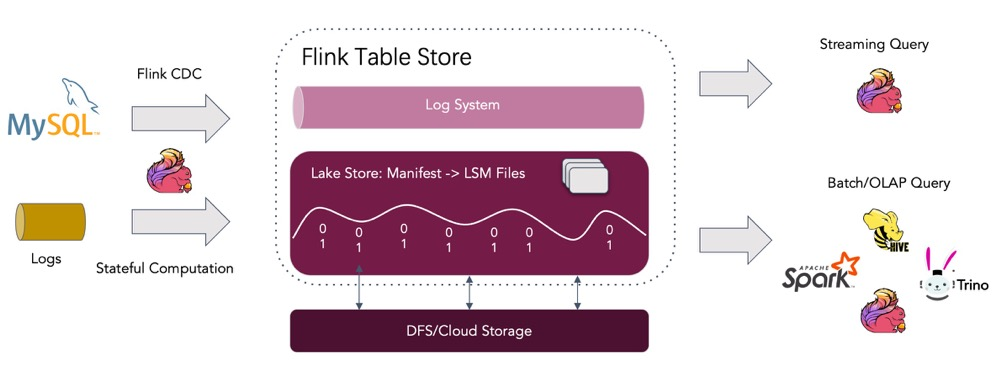
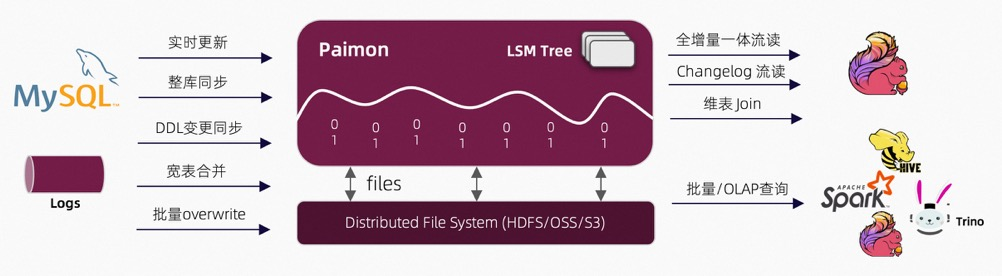
feat(flink): update paimon

diff --git a/bigdata/engine/flink/zoology/paimon/PaimonOverview.md b/bigdata/engine/flink/zoology/paimon/PaimonOverview.md
@@ -1,16 +1,16 @@
 # Quick Start
 
-* Flink1.14之后才支持Table Stroe，下载对应版本的Flink。
+* Flink1.14之后才支持Table Stroe(现改名为paimon)，下载对应版本的Flink。
 
 ## 前置环境
 
-### 下载Flink Table Store所需依赖
+### 下载Paimon所需依赖
 
-* 下载[flink1.15]([**https://dlcdn.apache.org/flink/flink-1.15.2/flink-1.15.2-bin-scala_2.12.tgz**](https://dlcdn.apache.org/flink/flink-1.15.2/flink-1.15.2-bin-scala_2.12.tgz))
-* 编译[Flink Table Store](https://nightlies.apache.org/flink/flink-table-store-docs-master/docs/engines/build/)
+* 下载[flink1.16](https://www.apache.org/dyn/closer.lua/flink/flink-1.16.1/flink-1.16.1-bin-scala_2.12.tgz)
+* 下载[Paimon](https://repository.apache.org/snapshots/org/apache/paimon/paimon-flink-1.16/0.4-SNAPSHOT/)
 
 ```shell
-cp flink-table-store-dist-*.jar FLINK_HOME/lib/
+cp paimon-flink-*.jar <FLINK_HOME>/lib/
 ```
 
 * 下载[flink hadoop](https://repo.maven.apache.org/maven2/org/apache/flink/flink-shaded-hadoop-2-uber/2.8.3-10.0/flink-shaded-hadoop-2-uber-2.8.3-10.0.jar)
@@ -47,7 +47,7 @@ taskmanager.numberOfTaskSlots: 2
 
 ```sql
 CREATE CATALOG my_catalog WITH (
-  'type'='table-store',
+  'type'='paimon',
   'warehouse'='file:/Users/huangshimin/Documents/study/flink/tableStoreData'
 );
 
@@ -97,23 +97,39 @@ SELECT `interval`, COUNT(*) AS interval_cnt FROM
   (SELECT cnt / 10000 AS `interval` FROM word_count) GROUP BY `interval`;
 ```
 
-# Table Store概述
+# Paimon概述
 
-* Flink Table Store是在Flink中构建动态表进行流处理和批处理的统一存储，支持高速数据摄取和及时数据查询。Table Store提供以下核心功能:
-  * 支持大规模数据集的存储，允许批处理和流模式下的读写。
-  * 支持延迟最小至毫秒的流查询。
-  * 支持最小延迟至第二级的批次/OLAP查询。
-  * 默认支持增量快照流消费。因此用户不需要自己组合不同的数据管道。
+* Apache Paimon (incubating) 是一项流式数据湖存储技术，可以为用户提供高吞吐、低延迟的数据摄入、流式订阅以及实时查询能力。Paimon 采用开放的数据格式和技术理念，可以与 Apache Flink / Spark / Trino 等诸多业界主流计算引擎进行对接，共同推进 Streaming Lakehouse 架构的普及和发展。
+* 作为一种新型的可更新数据湖，Paimon具有以下特点：
+  - 大吞吐量的更新数据摄取，同时提供良好的查询性能。
+  - 具有主键过滤器的高性能查询，响应时间最快可达到百毫秒级别。
+  - 流式读取在 Lake Storage 上可用，Lake Storage 还可以与 Kafka 集成，以提供毫秒级流式读取。
 
 ## 架构
 
 ![](../../img/tablestore架构.jpg)
 
-* **读/写:**  Table Store支持读写数据和执行OLAP查询的通用方法。
-  * 对于读，它支持读取数据来自1.历史快照(batch mode) 2.来自最新的offset(streaming mode) 3.混合方式读取增量快照数据
-  * 对于写，支持从数据库的变更日志(CDC)的流同步或从离线数据的批量插入/覆盖。
-* **外部生态系统:**  除了支持Flink以外，Table Store还支持通过其他计算引擎来读取例如Hive/Spark/Trino。
-* **内部原理:**  Table Store使用混合存储体系结构，使用湖格式存储历史数据，使用消息队列系统存储增量数据。前者将列存文件存储在文件系统/对象存储中，并使用LSM树结构支持大量数据更新和高性能查询。后者使用Apache Kafka实时捕获数据。
+* **读/写:**  Paimon支持读写数据和执行OLAP查询的通用方法。
+  * 对于读，支持1全增量一体流读2.Changelog流读3.维表join4.批量/OLAP查询
+  * 对于写，支持1.实时更新2.整库同步3.DDL变更同步4.宽表合并5.批量overwrite
+* **外部生态系统:**  除了支持Flink以外，Paimon还支持通过其他计算引擎来读取例如Hive/Spark/Trino/Presto，未来会持续支持Doris和Starrocks
+* **内部原理:**  Paimon使用混合存储体系结构(湖存储 + LSM + 列式格式 (ORC, Parquet))，使用湖格式存储历史数据，使用消息队列系统存储增量数据。前者将列存文件存储在文件系统/对象存储中，并使用LSM树结构支持大量数据更新和高性能查询。后者使用Apache Kafka实时捕获数据。
+  * 高性能更新：LSM 的 **Minor Compaction**，保障写入的性能和稳定性
+  * 高性能合并：LSM 的有序合并效率非常高
+  * 高性能查询：LSM 的 基本有序性，保障查询可以基于主键做文件的 Skipping
+
+* **Flink CDC&Paimon**:通过与 Flink CDC 的整合，Paimon 可以让的业务数据简单高效的流入数据湖中。
+  * 实时同步 Mysql 单表到 Paimon 表，并且**实时将上游 Mysql 表结构（Schema）的变更同步到下游的 Paimon 表中**。
+  * 实时同步 Mysql 整库级别的表结构和数据到 Paimon 中，同时支持表结构变更的同步，并且在同步过程中复用资源，只用少量资源，就可以同步大量的表。
+
+* **多流合并能力**
+  * 在数据仓库的业务场景下，经常会用到宽表数据模型，宽表模型通常是指将业务主体相关的指标、维表、属性关联在一起的模型表，也可以泛指将多个事实表和多个维度表相关联到一起形成的宽表。
+  * Paimon 的 Partial-Update 合并引擎可以根据相同的主键实时合并多条流，形成 Paimon 的一张大宽表，依靠 LSM 的延迟 Compaction 机制，以较低的成本完成合并。合并后的表可以提供批读和流读：
+    * 批读：在批读时，读时合并仍然可以完成 Projection Pushdown，提供高性能的查询。
+    * 流读：下游可以看到完整的、合并后的数据，而不是部分列。
+
+
+![](../../img/paimonUnionStream.jpg)
 
 ## 统一的存储
 
@@ -121,7 +137,7 @@ SELECT `interval`, COUNT(*) AS interval_cnt FROM
   * **消息队列**，例如kafka，在这个管道的source阶段和中间处理阶段都使用它，以确保延迟保持在几秒内。
   * **OLAP系统**，例如clickhouse，它以流的方式接收处理过的数据，并为用户的特别查询服务。
   * **批次存储**，例如HIve，它支持传统批处理的各种操作，包括INSERT OVERWRITE。
-* Flink Table Store提供表抽象。它的使用方式与传统数据库没有区别:
+* Flink Paimon提供表抽象。它的使用方式与传统数据库没有区别:
   * 在flink的`batch`执行模式，它就像一个Hive表，支持Batch SQL的各种操作。查询它可以查看最新的快照。
   * 在flink的`streaming`执行模式，他类似消息队列，查询它就像从一个消息队列中查询历史数据永不过期的流更改日志。
 

diff --git a/README.md b/README.md
@@ -184,9 +184,9 @@
 
 ##### zoology
 
-###### Flink Table Store
+###### Paimin
 
-* [TableStoreOverView](bigdata/engine/flink/zoology/flink%20table%20store/TableStoreOverview.md)
+* [PaimonOverview](bigdata/engine/flink/zoology/paimon/PaimonOverview.md)
 
 ###### Flink CDC Connector
 
